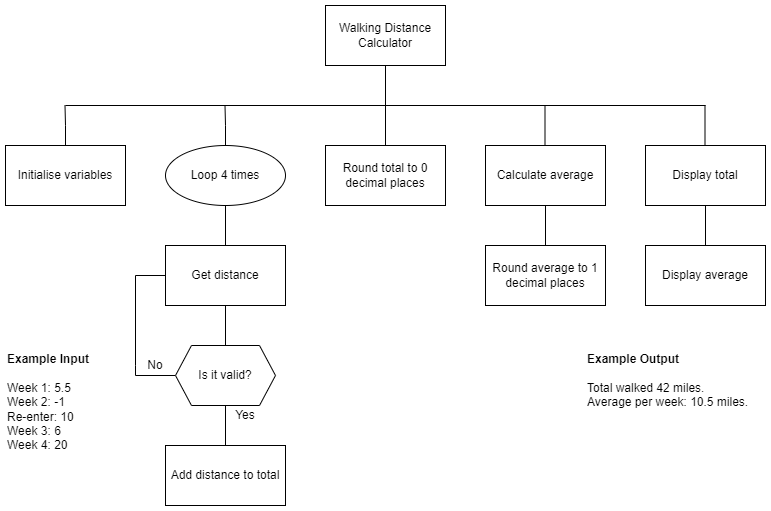
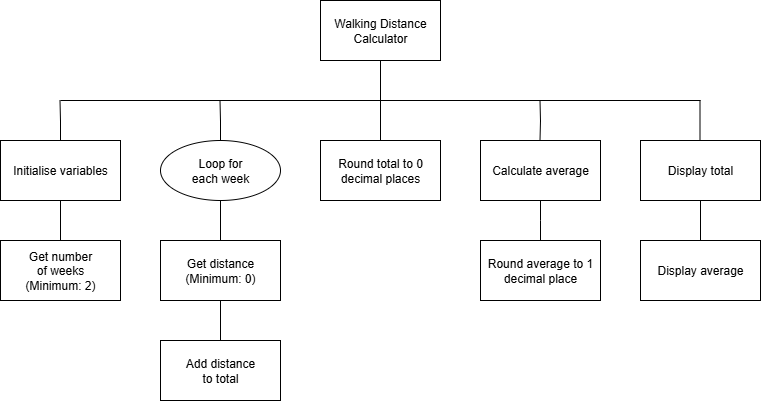
Updated

diff --git a/n5-cs/sdd/N5-SDD-Walking/index3.md b/n5-cs/sdd/N5-SDD-Walking/index3.md
@@ -1,23 +1,62 @@
-# Instructions  
-
-Using the structure diagram, implement the code and test it.
-
-This task will practise using:
-
-* Input validation
-* Running total
-* Rounding
-* Concatenation
-
-To improve the readability of the program, use:
-
-* Meaningful identifiers
-* Internal commentary
-* White space
-* Indentation
+# N5 SDD - Walking Distance Calculator Part 3
 
 
-## Structure diagram
+## Introduction
 
-  ![Structure diagram](assets/sd3.png)
+Walking is a popular hobby / exercise for many people.
+There are different apps, both paid and free, that will record what someone has done.
+Often, the data is then shared in a way that the user is unaware of.
 
+
+## Task
+
+Create a small program for those who do not want to share their data.
+It will ask the user how many weeks of data they have, with a minimum of 2 weeks allowed.
+It will then ask them to enter a distance for each of the weeks, with a minimum of 0 allowed.
+It will display the total distance, to 0 decimal places, and the mean distance, to 1 decimal place.
+
+
+## Top level design (Structure diagram)
+
+![Structure diagram](assets/sd3.png)
+
+
+## Example User Interface
+
+```
+Walking Calculator
+------------------
+
+How many weeks? 4
+
+Week 1 distance? 12
+Week 2 distance? 7.3
+Week 3 distance? 9
+Week 4 distance? 11.2
+
+Total: 40 units
+Average: 10.0 units per week
+
+==================
+```
+
+
+## Efficiency
+
+Use an efficient coding construct to reduce the lines of code written.
+
+
+## Readability
+
+Ensure that the program is written to help the next person who looks at it.
+
+Use:
+
+- Meaningful identifiers
+- Internal commentary
+- Whitespace
+
+
+## Help
+
+Help with formulas is available at the Maths is Fun website: [mean](https://www.mathsisfun.com/mean.html)

diff --git a/n5-cs/sdd/N5-SDD-Walking/index3-orig.md b/n5-cs/sdd/N5-SDD-Walking/index3-orig.md
@@ -1,0 +1,23 @@
+# Instructions  
+
+Using the structure diagram, implement the code and test it.
+
+This task will practise using:
+
+* Input validation
+* Running total
+* Rounding
+* Concatenation
+
+To improve the readability of the program, use:
+
+* Meaningful identifiers
+* Internal commentary
+* White space
+* Indentation
+
+
+## Structure diagram
+
+  ![Structure diagram](assets/sd3.png)
+
